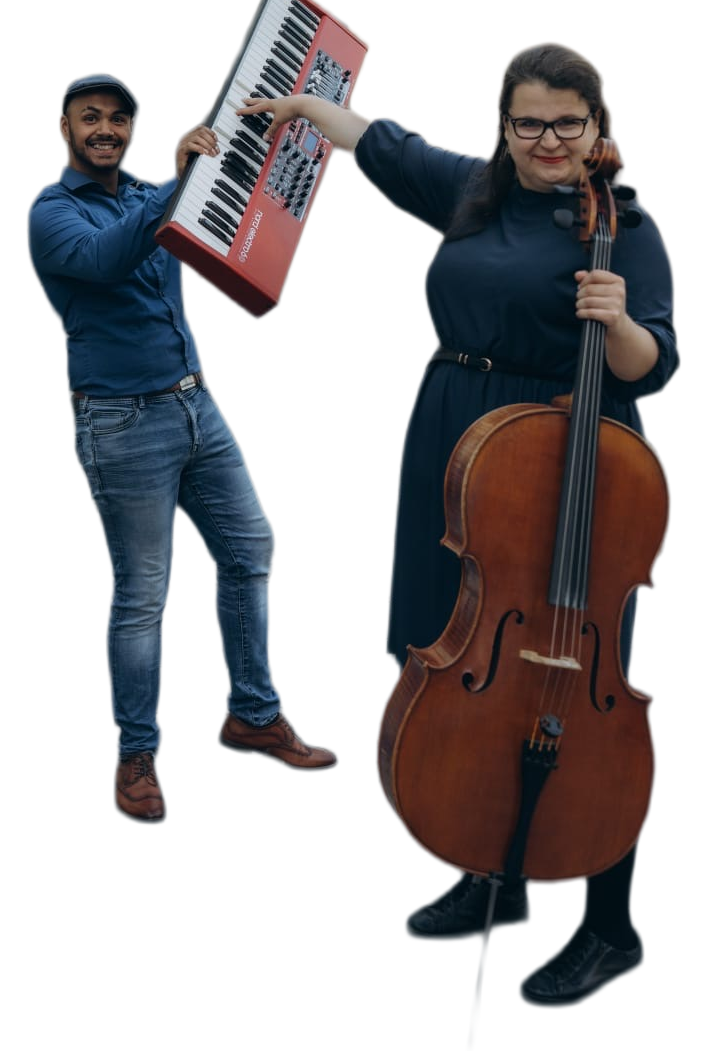
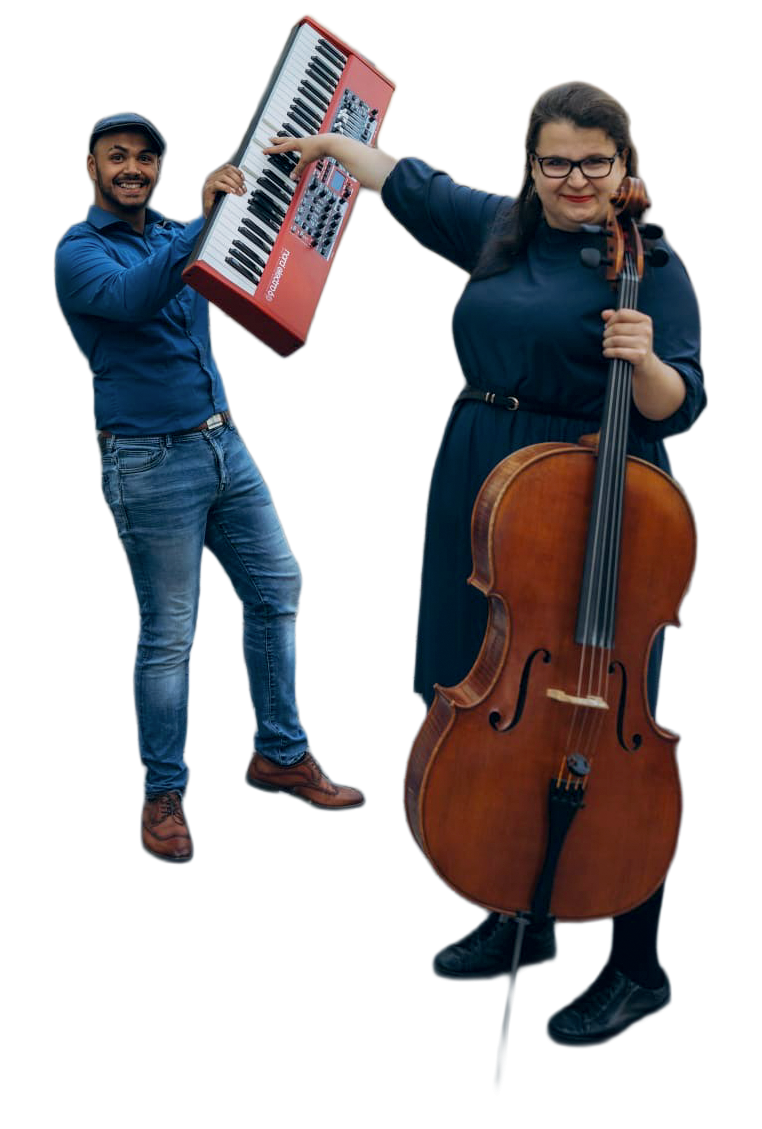
O nas: brighten original duo and keep full keyboard

diff --git a/o-nas/index.html b/o-nas/index.html
@@ -346,14 +346,14 @@ main{background:#17111f}
 <!-- ABOUT_CARD_FIX_2026_09_END -->
 <!-- ABOUT_ORIGINAL_DUO_2026_09_START -->
 <style>
-.celliano-about .ca-opening{grid-template-columns:minmax(0,.30fr) minmax(0,.36fr) minmax(270px,.34fr)!important;gap:24px!important}
-.celliano-about .ca-opening__portrait{position:relative!important;height:440px!important;margin:0 -18px -1px -12px!important;overflow:visible!important;display:flex!important;align-items:flex-end!important;justify-content:center!important}
-.celliano-about .ca-opening__portrait::before{content:''!important;position:absolute!important;left:50%!important;bottom:1%!important;width:96%!important;height:66%!important;transform:translateX(-50%)!important;background:radial-gradient(ellipse at center,rgba(125,84,157,.22),rgba(212,177,105,.055) 50%,transparent 74%)!important;filter:blur(7px)!important;pointer-events:none!important}
-.celliano-about .ca-opening__portrait img{position:relative!important;z-index:2!important;display:block!important;width:auto!important;height:100%!important;max-width:100%!important;object-fit:contain!important;object-position:center bottom!important;transform:none!important;filter:drop-shadow(0 22px 25px rgba(0,0,0,.40))!important}
-@media(max-width:900px){.celliano-about .ca-opening{grid-template-columns:minmax(0,.32fr) minmax(0,.36fr) minmax(235px,.32fr)!important}.celliano-about .ca-opening__portrait{height:390px!important;margin-right:-10px!important}}
-@media(max-width:680px){.celliano-about .ca-opening{grid-template-columns:1fr!important;gap:14px!important}.celliano-about .ca-opening__portrait{height:585px!important;margin:2px -8px -1px!important}.celliano-about .ca-opening__portrait::before{width:94%!important;height:64%!important;bottom:0!important}.celliano-about .ca-opening__portrait img{width:auto!important;height:100%!important;max-width:92%!important;transform:none!important}}
-@media(max-width:430px){.celliano-about .ca-opening__portrait{height:540px!important}.celliano-about .ca-opening__portrait img{max-width:94%!important}}
-@media(max-width:390px){.celliano-about .ca-opening__portrait{height:510px!important}}
+.celliano-about .ca-opening{grid-template-columns:minmax(0,.30fr) minmax(0,.36fr) minmax(280px,.34fr)!important;gap:24px!important}
+.celliano-about .ca-opening__portrait{position:relative!important;height:470px!important;margin:0 -18px -1px -12px!important;overflow:visible!important;display:flex!important;align-items:flex-end!important;justify-content:center!important}
+.celliano-about .ca-opening__portrait::before{content:''!important;position:absolute!important;left:50%!important;bottom:1%!important;width:96%!important;height:68%!important;transform:translateX(-50%)!important;background:radial-gradient(ellipse at center,rgba(125,84,157,.20),rgba(212,177,105,.05) 50%,transparent 74%)!important;filter:blur(7px)!important;pointer-events:none!important}
+.celliano-about .ca-opening__portrait img{position:relative!important;z-index:2!important;display:block!important;width:auto!important;height:100%!important;max-width:100%!important;object-fit:contain!important;object-position:center bottom!important;transform:none!important;filter:drop-shadow(0 22px 25px rgba(0,0,0,.38))!important}
+@media(max-width:900px){.celliano-about .ca-opening{grid-template-columns:minmax(0,.32fr) minmax(0,.36fr) minmax(245px,.32fr)!important}.celliano-about .ca-opening__portrait{height:420px!important;margin-right:-10px!important}}
+@media(max-width:680px){.celliano-about .ca-opening{grid-template-columns:1fr!important;gap:10px!important}.celliano-about .ca-opening__portrait{height:590px!important;margin:-18px -6px -1px!important}.celliano-about .ca-opening__portrait::before{width:96%!important;height:66%!important;bottom:0!important}.celliano-about .ca-opening__portrait img{width:auto!important;height:100%!important;max-width:96%!important;transform:none!important}}
+@media(max-width:430px){.celliano-about .ca-opening__portrait{height:555px!important}.celliano-about .ca-opening__portrait img{max-width:97%!important}}
+@media(max-width:390px){.celliano-about .ca-opening__portrait{height:520px!important}}
 </style>
 <!-- ABOUT_ORIGINAL_DUO_2026_09_END -->
 </head><body><a href="#content" class="skip">Přejít na obsah</a><header class="site-header"><div class="site-header__inner"><a class="brand" href="/" aria-label="Celliano – domů"><span class="brand-mark"><img src="https://assets.zyrosite.com/N7F5VQWUOLqbMwrL/c-logo-tmav-celliano-web-cLe3Vkayn2Fww72U.png" alt="" width="46" height="46"></span></a><nav class="site-menu" aria-label="Hlavní navigace"><a href="/">Domů</a><a href="/o-nas/" aria-current="page">O nás</a><a href="/svatby/">Svatby</a><a href="/firemni-akce/">Firemní akce</a><a href="/ukazky/">Ukázky</a><a href="/reference/">Reference</a><a href="/co-hrajeme/">Co hrajeme</a><a href="/akce/">Akce</a><a href="/kontakt/">Kontakt</a></nav><nav class="site-social site-social--header" aria-label="Celliano na sociálních sítích"><a href="https://www.tiktok.com/@celliano_cello_piano" target="_blank" rel="noopener noreferrer" aria-label="Celliano na TikTok" title="TikTok"><svg viewBox="0 0 24 24" aria-hidden="true" focusable="false"><path fill="currentColor" d="M14.2 2.8c.3 2.8 1.9 4.3 4.7 4.5v3.2c-1.6 0-3.2-.6-4.7-1.6v5.5a5.2 5.2 0 1 1-5.2-5.2h.3v3.2a2 2 0 1 0 1.7 2V2.8h3.2Z"/></svg></a><a href="https://www.youtube.com/@celliano_cello_piano" target="_blank" rel="noopener noreferrer" aria-label="Celliano na YouTube" title="YouTube"><svg viewBox="0 0 24 24" aria-hidden="true" focusable="false"><rect x="2" y="5" width="20" height="14" rx="4" fill="currentColor"/><path d="m10 9 6 3-6 3V9Z" fill="#211a2c"/></svg></a><a href="https://www.facebook.com/profile.php?id=61573140607977" target="_blank" rel="noopener noreferrer" aria-label="Celliano na Facebook" title="Facebook"><svg viewBox="0 0 24 24" aria-hidden="true" focusable="false"><path fill="currentColor" d="M14.4 21v-8h2.7l.45-3.4H14.4V7.5c0-1 .3-1.5 1.7-1.5h1.6V3h-2.3C11.8 3 10.9 4.7 10.9 7.2v2.4H8.5V13h2.4v8h3.5Z"/></svg></a><a href="https://www.instagram.com/celliano_cello_piano/" target="_blank" rel="noopener noreferrer" aria-label="Celliano na Instagram" title="Instagram"><svg viewBox="0 0 24 24" aria-hidden="true" focusable="false"><rect x="3" y="3" width="18" height="18" rx="5" fill="none" stroke="currentColor" stroke-width="1.8"/><circle cx="12" cy="12" r="4" fill="none" stroke="currentColor" stroke-width="1.8"/><circle cx="17.4" cy="6.6" r="1.2" fill="currentColor"/></svg></a></nav></div></header><main id="content"><!-- Test composition uses only real Celliano photographs; no generated people. -->
